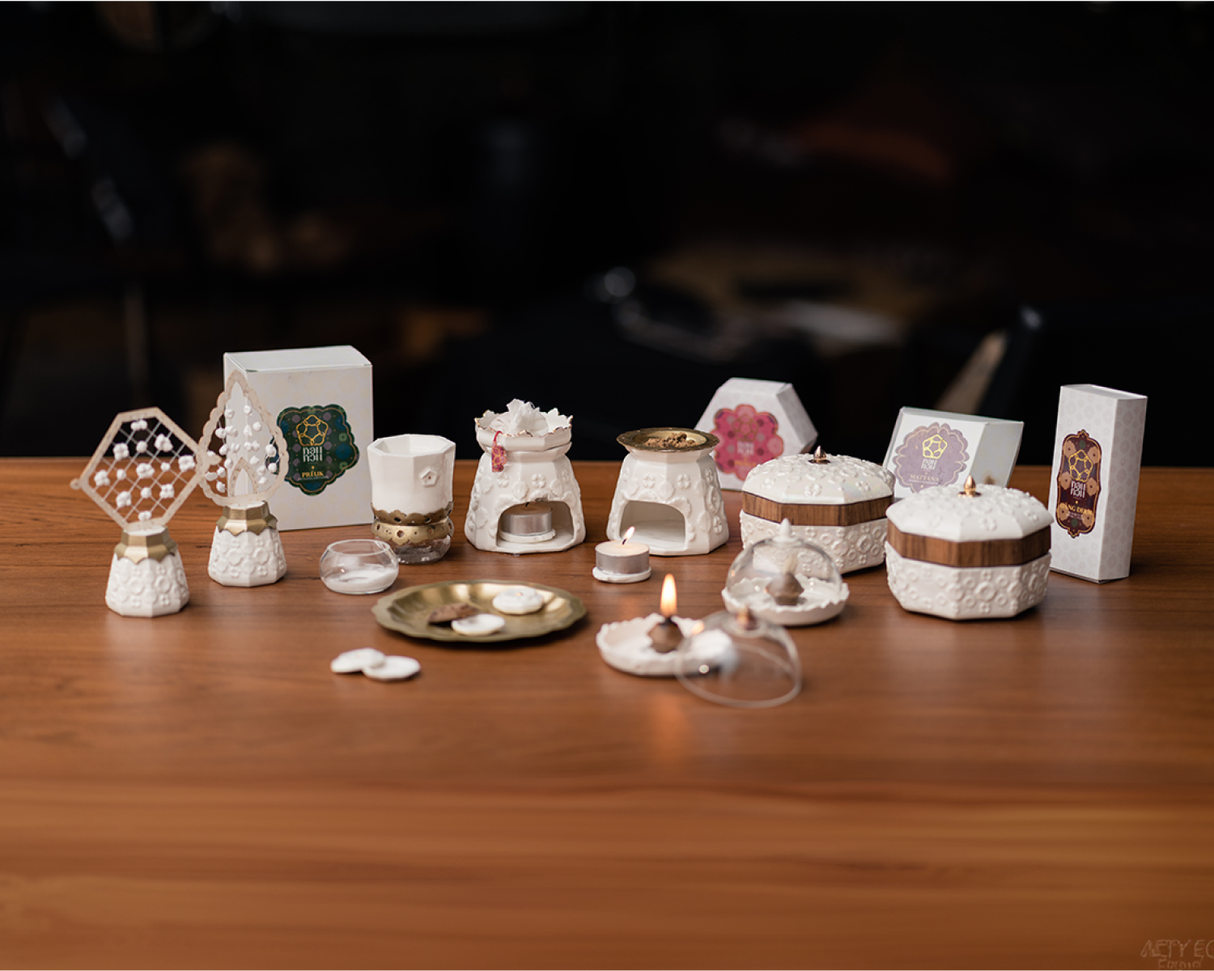
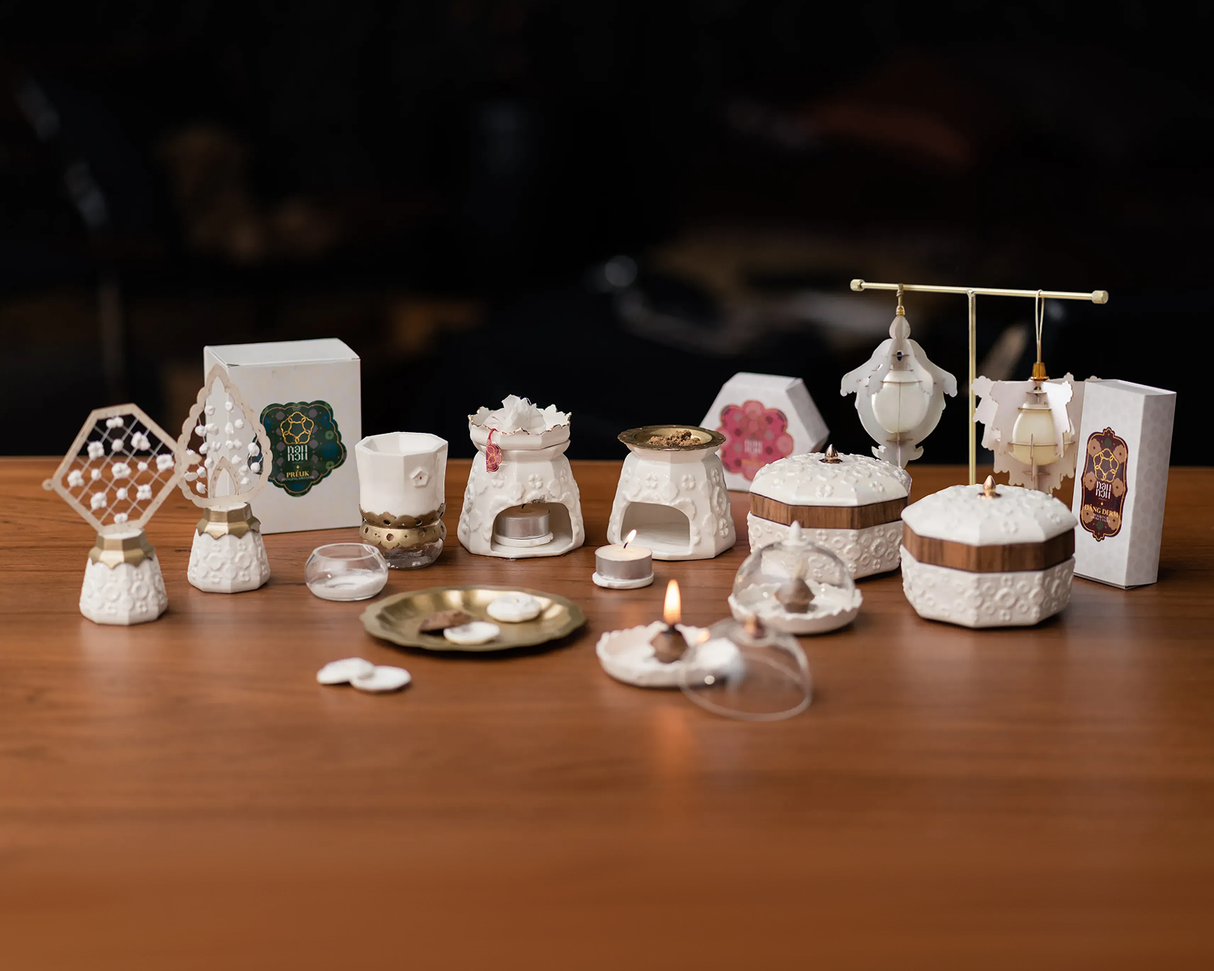
Homhuan assets

diff --git a/src/content/case-studies/homhuan.ts b/src/content/case-studies/homhuan.ts
@@ -19,11 +19,11 @@ const homhuanCaseStudy = {
     "meta": [
       {
         "label": "Role",
-        "value": "Solo. Research, concept, industrial design, ceramics and materials, fragrance development, branding and packaging."
+        "value": "Solo · Research · Industrial Design · Materials · Fragrance Development · Branding"
       },
       {
         "label": "Team",
-        "value": "Solo capstone (industrial design thesis)"
+        "value": "Industrial Design Capstone"
       },
       {
         "label": "Duration",
@@ -82,7 +82,7 @@ const homhuanCaseStudy = {
         {
           "type": "prose",
           "paragraphs": [
-            "Homhuan started from a single object. In an earlier project I had taken one Thai heritage candle, *tian ob*, traditionally lit, extinguished, and trapped under a lid so its smoke perfumes a dessert, and reworked it into a modern object. It worked so cleanly that it raised a bigger question: if one heritage fragrance practice translates this well, what would a whole collection look like?",
+            "Homhuan started from a single object. In an earlier project I had taken one Thai heritage candle, **tian ob**, traditionally lit, extinguished, and trapped under a lid so its smoke perfumes a dessert, and reworked it into a modern object. It worked so cleanly that it raised a bigger question: if one heritage fragrance practice translates this well, what would a whole collection look like?",
             "For the capstone I went back to the source that candle came from, the golden age of Thai heritage fragrance, roughly a century ago. I worked from period publications rather than modern summaries. Most of what I found described a way of living, when and how people used scent in daily life, which is what later let me translate rituals, not just shapes.",
             "One find mattered more than the rest: a fragrance recipe made from fresh flower petals that I could not find online at the time, and still cannot today. That recovered method became the heart of one of the seven products."
           ]
@@ -115,12 +115,12 @@ const homhuanCaseStudy = {
           "type": "imagePair",
           "items": [
             {
-              "src": "/projects/homhuan/homhuan-aroma-brass.jpg",
+              "src": "/projects/homhuan/homhuan-product-brass.png",
               "alt": "Aroma stove configured with a brass pan warming solid incense",
               "caption": "Brass pan, dry heat, solid incense"
             },
             {
-              "src": "/projects/homhuan/homhuan-aroma-ceramic.jpg",
+              "src": "/projects/homhuan/homhuan-product-ceramic.png",
               "alt": "Aroma stove configured with a ceramic pot boiling an aroma bag",
               "caption": "Ceramic pot, wet heat, aroma bag"
             }
@@ -141,12 +141,12 @@ const homhuanCaseStudy = {
           "type": "imagePair",
           "items": [
             {
-              "src": "/projects/homhuan/mobile-traditional.jpg",
+              "src": "/projects/homhuan/homhuan-product-diffuser-inspiration.png",
               "alt": "Traditional Thai floral mobile woven from banana tree and garland",
               "caption": "The source, a woven floral mobile"
             },
             {
-              "src": "/projects/homhuan/homhuan-aroma-diffuser.jpg",
+              "src": "/projects/homhuan/homhuan-product-diffuser.jpg",
               "alt": "Homhuan flat reed diffuser with paper frame and piped fragrance beads",
               "caption": "The translation, frame in paper, flowers in scent"
             }
@@ -165,7 +165,7 @@ const homhuanCaseStudy = {
         },
         {
           "type": "image",
-          "src": "/projects/homhuan/rejected-candle-sketch.jpg",
+          "src": "/projects/homhuan/homhuan-dropped-idea.webp",
           "alt": "Concept sketch and render of the rejected upside-down hanging perfuming candle",
           "caption": "Cut at concept stage, on safety and redundancy"
         },
@@ -208,35 +208,35 @@ const homhuanCaseStudy = {
         {
           "type": "prose",
           "paragraphs": [
-            "**Personal perfume set, the miller and the locket.** The set translates two practices that belong together. The miller comes from the heritage habit of mashing fragrance powder beads with perfume and herbs to a personal taste. I replaced the medicinal-looking masher with the period's miller form, kept its patterned grinding surface, minimised the shape, and preserved the use, so a person can make their own solid perfume from raw beads and a chosen scent. That perfume goes into the seventh product: a solid-perfume holder drawn from the wax lip lockets people carried and used to express themselves. I paired them so the collection could tell the era's story in sequence, not as seven separate objects."
+            "**Personal perfume set, the miller and the locket.** The set translates two practices that belong together. \n The miller comes from the heritage habit of mashing fragrance powder beads with perfume and herbs to a personal taste. I replaced the medicinal-looking masher with the period's miller form, kept its patterned grinding surface, minimised the shape, and preserved the use, so a person can make their own solid perfume from raw beads and a chosen scent. \n That perfume goes into the seventh product: a solid-perfume holder drawn from the wax lip lockets people carried and used to express themselves. I paired them so the collection could tell the era's story in sequence, not as seven separate objects."
           ]
         },
         {
           "type": "imageGrid",
           "items": [
             {
-              "src": "/projects/homhuan/homhuan-aroma-candle.jpg",
+              "src": "/projects/homhuan/homhuan-product-candle.jpg",
               "alt": "Candle with Benjarong-inspired ceramic holder",
               "caption": "Candle, from tian ob"
             },
             {
-              "src": "/projects/homhuan/diffuser-3d.jpg",
+              "src": "/projects/homhuan/homhuan-product-hanging-diffuser.png",
               "alt": "Hanging three-dimensional reed diffuser in die-cut paper",
               "caption": "Diffuser, from the mobile silhouette"
             },
             {
-              "src": "/projects/homhuan/homhuan-aroma-container.jpg",
+              "src": "/projects/homhuan/homhuan-product-container.jpg",
               "alt": "Ceramic perfuming storage desk object",
               "caption": "Perfuming storage, from cabinet scenting"
             },
             {
-              "src": "/projects/homhuan/homhuan-aroma-miller-locket.jpg",
+              "src": "/projects/homhuan/homhuan-product-miller-locket.jpg",
               "alt": "Ceramic and brass miller for grinding fragrance beads",
               "caption": "Miller, from the powder-bead ritual and Locket, from the wax lip locket"
             },
            
             {
-              "src": "/projects/homhuan/homhuan-cover.png",
+              "src": "/projects/homhuan/homhuan-set.png",
               "alt": "The seven products shown together as a family",
               "caption": "Seven sources, one collection"
             }
@@ -250,10 +250,22 @@ const homhuanCaseStudy = {
       "titleEm": "in three months",
       "blocks": [
         {
+          "type": "image",
+          "src": "/projects/homhuan/homhuan-render-to-reality.png",
+          "alt": "From a render to reality",
+          "caption": "Shift from a render to a real collection"
+        },
+        {
           "type": "prose",
           "paragraphs": [
-            "Homhuan was designed and produced solo across three months, in six materials [CONFIRM: ceramic, brass, glass, paper, wax, wood]. One holder shape recurs across the collection, varied by colour and ceramic glaze, so seven different objects still read as one family."
+            "Homhuan was designed and produced solo across three months, in six materials including ceramic, brass, glass, paper, wax, wood. One holder shape recurs across the collection, varied by colour and ceramic glaze, so seven different objects still read as one family."
           ]
+        },
+        {
+          "type": "image",
+          "src": "/projects/homhuan/homhuan-render-to-reality.png",
+          "alt": "From a render to reality",
+          "caption": "Shift from a render to a real collection"
         },
         {
           "type": "prose",
@@ -267,19 +279,6 @@ const homhuanCaseStudy = {
             "Each object is paired with its own consumable fragrance, seven in all, carrying five signature scents hand-blended for the collection. The small candle, sized for one or two uses, was designed for refills from the start, so the collection stays in use rather than sitting on a shelf."
           ]
         },
-        {
-          "type": "twoCol",
-          "items": [
-            {
-              "label": "Objects",
-              "body": "Seven vessels, one recurring holder shape, varied by colour and glaze."
-            },
-            {
-              "label": "Consumables",
-              "body": "Seven fragrance products across five signature scents, hand-blended."
-            }
-          ]
-        }
       ]
     },
     "outcome": {
@@ -287,6 +286,7 @@ const homhuanCaseStudy = {
       "title": "What it earned,",
       "titleEm": "and what it taught",
       "blocks": [
+        
         {
           "type": "prose",
           "paragraphs": [

diff --git a/src/styles/case-study-major.css b/src/styles/case-study-major.css
@@ -595,6 +595,7 @@
 /* Single image */
 .cs-major__image {
   margin: var(--spacing-12) 0;
+  max-width: var(--cs-content-w);
 }
 
 .cs-major__image-img {

diff --git a/src/content/case-studies/homhuan.md b/src/content/case-studies/homhuan.md
@@ -3,7 +3,7 @@ kind: major
 slug: homhuan
 hero:
   breadcrumb: Homhuan
-  eyebrow: "001 · Industrial Design · Heritage Translation · 2019"
+  eyebrow: Industrial Design · Heritage Translation · 2019
   titleLine1: Hom
   titleLine2: Huan
   summary: A collection of seven home fragrance products that translate Thai heritage scent practices from a century ago into objects that sit in a modern home without apology.
@@ -29,7 +29,9 @@ titleEm: made for a modern home
 
 ## prose
 
-Homhuan is a home fragrance collection of seven products, each translated from a different Thai heritage scent practice of roughly a century ago. Every object keeps its source's mechanism or form and updates its use for a contemporary home, so a century-old practice can sit in a modern space without needing to explain where it came from.
+Home fragrance is bought, used, and refilled endlessly, yet it is almost always culturally anonymous. Meanwhile the Thai heritage scent practices of a century ago survive mostly in period publications and are disappearing from use. Heritage stays in the museum; the modern home smells like nowhere in particular.
+
+Homhuan is a home fragrance collection of seven products, each translated from a different Thai heritage scent practice of roughly a century ago. Every object keeps its source's mechanism or form and updates its use for a modern home, so a century-old practice can sit in a contemporary space without needing to explain where it came from.
 
 ## stats
 
@@ -54,16 +56,9 @@ titleEm: then forward
 
 ## prose
 
-Homhuan started from a single object. In an earlier project I had taken one Thai heritage candle, *tian ob*, traditionally lit, extinguished, and trapped under a lid so its smoke perfumes a dessert, and reworked it into a modern object. It worked so cleanly that it raised a bigger question: if one heritage fragrance practice translates this well, what would a whole collection look like?
+Homhuan started from a single object. In an earlier project I had reworked one Thai heritage candle, *tian ob*, lit, extinguished, and trapped under a lid so its smoke perfumes a dessert, into a modern object. It translated so cleanly that it raised a bigger question: if one heritage practice works this well, what would a whole collection look like?
 
-For the capstone I went back to the source that candle came from, the golden age of Thai heritage fragrance, roughly a century ago. I worked from period publications rather than modern summaries. Most of what I found described a way of living, when and how people used scent in daily life, which is what later let me translate rituals, not just shapes.
-
-One find mattered more than the rest: a fragrance recipe made from fresh flower petals that I could not find online at the time, and still cannot today. That recovered method became the heart of one of the seven products.
-
-## pullquote
-
-text: Working from period publications let me translate rituals, not just shapes.
-source: On the research method
+For the capstone I went back to its source, the golden age of Thai heritage fragrance a century ago, working from period publications rather than modern summaries. Most of what I found described a way of living, how people used scent day to day, which let me translate rituals, not just shapes. One find mattered most: a fresh-petal fragrance recipe I could not find online then and still cannot today. That recovered method became the heart of one of the seven products.
 
 # concept
 
@@ -73,11 +68,11 @@ titleEm: applied seven times
 
 ## prose
 
-Every product in Homhuan followed the same move: take a heritage practice or object, find the mechanism or form that made it work, keep that, and update its use for a modern home. The method stayed constant while the source changed. Three examples show how it worked, including the one I cut.
+Every product followed the same move: take a heritage practice, find the mechanism or form that made it work, keep that, and update its use for a modern home. The method stayed constant while the source changed. Three examples show it working, including the one I cut.
 
 ## prose
 
-**Aroma Stove, from the Anglo stove.** The Anglo stove was the workhorse of the period home: fuel in the hole below, any vessel on top, used for boiling and cooking. I kept its operating principle exactly and abandoned its purpose. A tea light replaces the fuel; fragrance vessels replace the cookware. A brass pan warms solid incense with dry heat; a ceramic pot boils an aroma bag with wet heat. One stove, two heat methods, two kinds of scent.
+**Aroma Stove, from the Anglo stove.** The Anglo stove was the workhorse of the period home: fuel below, any vessel on top, for boiling and cooking. I kept its operating principle and dropped its purpose. A tea light replaces the fuel, fragrance vessels replace the cookware: a brass pan warms solid incense with dry heat, a ceramic pot boils an aroma bag with wet heat. Nothing about cooking survived. The way it worked did.
 
 ## imagePair
 
@@ -88,14 +83,9 @@ Every product in Homhuan followed the same move: take a heritage practice or obj
   alt: Aroma stove configured with a ceramic pot boiling an aroma bag
   caption: Ceramic pot, wet heat, aroma bag
 
-## pullquote
-
-text: Nothing about cooking survived. The way it worked did.
-source: Aroma Stove
-
 ## prose
 
-**Reed Diffuser, from the Thai floral mobile.** The traditional floral mobile is a flat frame cut from banana tree, with a fresh garland woven into it to form a pattern: decorative, perishable, hung. I kept its structure and changed what the pattern is made of. A paper frame replaces the banana tree; a single unbroken thread, run from the base of the stick and back to the same point, replaces the woven garland; and aromatic fragrance beads piped along the thread take the place of the flowers. A reed-and-oil bottle sits with the frame to do the steady diffusing, so the heritage form never has to compromise how well the product works.
+**Reed Diffuser, from the Thai floral mobile.** The traditional mobile is a flat frame cut from banana tree, woven with a fresh garland into a pattern: decorative, perishable, hung. I kept its structure and changed what the pattern is made of. A paper frame replaces the banana tree, a single unbroken thread replaces the garland, and fragrance beads piped along it take the place of the flowers. A reed-and-oil bottle does the steady diffusing, so the heritage form never compromises how well it works.
 
 ## imagePair
 
@@ -113,7 +103,7 @@ source: Reed Diffuser
 
 ## prose
 
-**The one I cut, a hanging perfuming candle.** Not everything survived. This concept came from the heritage practice of perfuming an enclosed cabinet with a candle, made compact so it could hang upside down in a ceramic holder on a rack. Conceptually it was one of my favourites: the source was rich, the mechanism translated, the idea was new. I cut it anyway, for two reasons that compounded. An inverted candle, even once extinguished, is a real safety risk in a home, and I was not willing to design around that. And the collection already scented enclosed spaces through another product, so it was not needed. It failed the test twice: once on whether it survives as a real object someone lives with, once on whether the collection actually needed it.
+**The one I cut, a hanging perfuming candle.** Not everything survived. It came from perfuming an enclosed cabinet with a candle, made compact to hang upside down in a ceramic holder. It was one of my favourites: rich source, clean translation, new idea. I cut it for two reasons that compounded. An inverted candle, even extinguished, is a real safety risk in a home. And the collection already scented enclosed spaces through another product. It failed the test twice: on whether it survives as a real object someone lives with, and on whether the collection needed it.
 
 ## image
 
@@ -134,44 +124,44 @@ titleEm: one period
 
 ## prose
 
-Each product translates a different fragrance practice from the same era. The method stays constant; the source changes seven times. Two are shown above; here is the full set.
+Each product translates a different practice from the same era. The method holds; the source changes seven times. Two are shown above; here is the full set.
 
 ## prose
 
-**Candle with holder, from tian ob.** A hand-made candle of wax, ground incense and spices, and Thai fragrance oil, scenting by smoke: lit, extinguished, and trapped. Traditionally it perfumed both desserts and cloth, so its use was never limited to food, and I extended that logic to a room. The holder takes its form from Benjarong porcelain, tying the candle to the collection's shared visual language.
+**Candle with holder, from tian ob.** A hand-made candle of wax, ground incense and spices, and Thai fragrance oil that scents by smoke. It once perfumed desserts and cloth, so its use was never only food, and I extended that to a room. The holder borrows Benjarong porcelain's form, tying it to the collection's visual language.
 
 ## prose
 
-**Reed Diffuser in three dimensions, from the floral mobile's silhouette.** The same heritage object translated a second way. Where the flat diffuser took the mobile's woven structure, this one takes its three-dimensional silhouette and minimises the outline. Die-cut paper assembles around a fragrance bottle at the centre, keeping the mobile's 360-degree hanging form. One source, two distinct translations.
+**Reed Diffuser in three dimensions, from the mobile's silhouette.** The same object translated again: where the flat version took the mobile's woven structure, this takes its silhouette, die-cut in paper around a central bottle to keep the 360-degree hanging form. One source, two translations.
 
 ## prose
 
-**Perfuming ceramic storage, from cabinet perfuming.** In the period, people kept clothes and accessories in cabinets scented with potpourri or smoke candles. I turned that enclosed-space technique into a desk object: a ceramic piece scented with a house-made fragrance gel or potpourri, for perfuming small accessories or napkins, and the room besides. This is where the fresh-petal recipe from the research lives, the method I could not find online, built into the one product it resonated with most.
+**Perfuming ceramic storage, from cabinet perfuming.** People once scented cabinets of clothes and accessories with potpourri or smoke candles. I made it a desk object: a ceramic piece holding a house-made gel or potpourri, for accessories, napkins, or the room. The fresh-petal recipe from the research lives here, built into the one product it suited most.
 
 ## prose
 
-**Personal perfume set, the miller and the locket.** The set translates two practices that belong together. The miller comes from the heritage habit of mashing fragrance powder beads with perfume and herbs to a personal taste. I replaced the medicinal-looking masher with the period's miller form, kept its patterned grinding surface, minimised the shape, and preserved the use, so a person can make their own solid perfume from raw beads and a chosen scent. That perfume goes into the seventh product: a solid-perfume holder drawn from the wax lip lockets people carried and used to express themselves. I paired them so the collection could tell the era's story in sequence, not as seven separate objects.
+**Personal perfume set, the miller and the locket.** Two practices that belong together. The miller comes from mashing fragrance powder beads with perfume and herbs to personal taste; I swapped the medicinal masher for the period's miller form, kept its patterned surface, and preserved the use, so a person can make their own solid perfume. 
 
 ## imageGrid
 
 - src: /projects/homhuan/candle.jpg
   alt: Candle with Benjarong-inspired ceramic holder
-  caption: Candle, from tian ob
+  caption: Candle, from tian ob. Sized small because the spice-wax suits small batches, which made refills the model
 - src: /projects/homhuan/diffuser-3d.jpg
   alt: Hanging three-dimensional reed diffuser in die-cut paper
-  caption: Diffuser, from the mobile silhouette
+  caption: Diffuser, from the mobile silhouette. Same source, second reading
 - src: /projects/homhuan/perfuming-storage.jpg
   alt: Ceramic perfuming storage desk object
-  caption: Perfuming storage, from cabinet scenting
+  caption: Perfuming storage, from cabinet scenting. Carries the recovered fresh-petal recipe
 - src: /projects/homhuan/miller.jpg
   alt: Ceramic and brass miller for grinding fragrance beads
-  caption: Miller, from the powder-bead ritual
+  caption: Miller, from the powder-bead ritual. Period miller form kept, medicinal masher dropped
 - src: /projects/homhuan/locket.jpg
   alt: Locket-form solid perfume holder
-  caption: Locket, from the wax lip locket
+  caption: Locket, from the wax lip locket. Paired with the miller to tell the ritual in sequence
 - src: /projects/homhuan/collection-family.jpg
   alt: The seven products shown together as a family
-  caption: Seven sources, one collection
+  caption: Seven sources, one collection, one recurring holder shape
 
 # build
 
@@ -181,22 +171,11 @@ titleEm: in three months
 
 ## prose
 
-Homhuan was designed and produced solo across three months, in six materials [CONFIRM: ceramic, brass, glass, paper, wax, wood]. One holder shape recurs across the collection, varied by colour and ceramic glaze, so seven different objects still read as one family.
+Homhuan was designed and produced solo in three months, across six materials [CONFIRM: ceramic, brass, glass, paper, wax, wood]. One holder shape recurs through the collection, varied by colour and glaze, so seven objects still read as one family.
 
 ## prose
 
-The brand's visual language comes from Benjarong porcelain. I took its botanical surface pattern, a raised glazed relief, and flattened it into a two-dimensional graphic for the identity, so the same heritage object that shapes the candle holder also runs through the branding and packaging. The identity covers the core CI and the fragrance packaging for the whole set.
-
-## prose
-
-Each object is paired with its own consumable fragrance, seven in all, carrying five signature scents hand-blended for the collection. The small candle, sized for one or two uses, was designed for refills from the start, so the collection stays in use rather than sitting on a shelf.
-
-## twoCol
-
-- label: Objects
-  body: Seven vessels, one recurring holder shape, varied by colour and glaze.
-- label: Consumables
-  body: Seven fragrance products across five signature scents, hand-blended.
+The visual language comes from Benjarong porcelain: I flattened its raised botanical relief into a two-dimensional graphic, so the object that shapes the candle holder also runs through the CI and packaging. Each object is paired with its own consumable fragrance, seven in all, across five hand-blended signature scents. The candle, sized for one or two uses, was built for refills from the start, so the collection stays in use rather than sitting on a shelf.
 
 # outcome
 
@@ -206,7 +185,7 @@ titleEm: and what it taught
 
 ## prose
 
-The project earned a High Distinction, was presented to a review panel, shown at the degree show in the Bangkok Art and Culture Centre, and selected for Bangkok Design Week 2019. The panel singled out the five hand-blended scents for balancing Thai and modern character, where traditional Thai aroma is usually known for being overwhelming.
+The project earned a High Distinction, went to a review panel, showed at the degree show in the Bangkok Art and Culture Centre, and was selected for Bangkok Design Week 2019. The panel singled out the five hand-blended scents for balancing Thai and modern character, where traditional Thai aroma is usually known for being overwhelming.
 
 ## outcomes
 
@@ -222,10 +201,10 @@ The project earned a High Distinction, was presented to a review panel, shown at
 
 ## prose
 
-The translation logic held, but the objects were not fully resolved. Seven products in three months meant most were built once, not iterated, and the panel was right that each needed two or three prototype rounds to settle. The clearest example is the stove: the gap between the tea light and the vessel above was too narrow, so the container overheated, and without airflow holes on both sides of the base the flame could not draw enough oxygen to burn to the end. Both are fixable in a second prototype. Neither showed up until the object existed.
+The translation logic held, but the objects were not fully resolved. Seven products in three months meant most were built once, not iterated, and the panel was right that each needed two or three prototype rounds. The stove is the clearest case: the gap between tea light and vessel was too narrow, so the container overheated, and without airflow holes on both sides of the base the flame could not draw enough oxygen to burn to the end. Both are fixable in a second prototype. Neither showed up until the object existed.
 
 ## reflections
 
-- A translation can be conceptually sound and the object can still be unresolved, because concept and object fail in different ways and at different stages.
-- Killing a flawed idea early is one kind of rigour. Catching what only appears once the thing is real is another, and it needs prototype rounds I did not have time for here.
+- A translation can be conceptually sound and the object still unresolved: concept and object fail in different ways, at different stages.
+- Killing a flawed idea early is one kind of rigour. Catching what only appears once the thing is real is another.
 - The standard does not switch off when the concept is approved.
